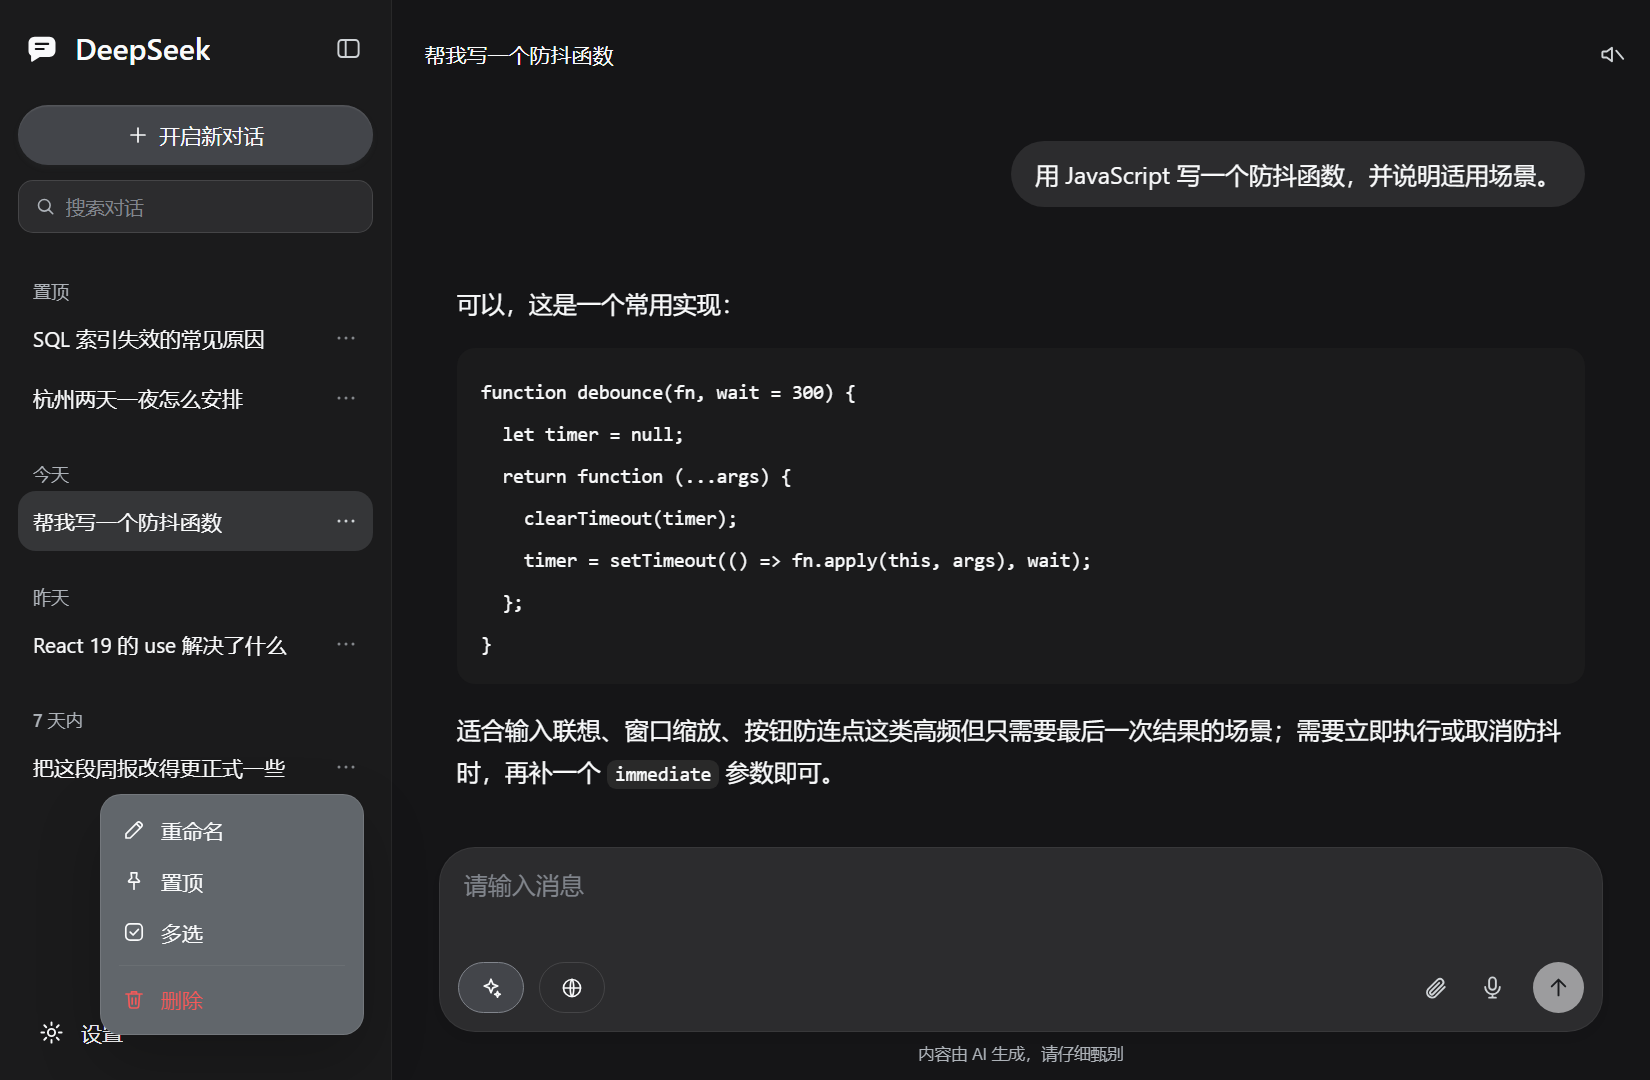
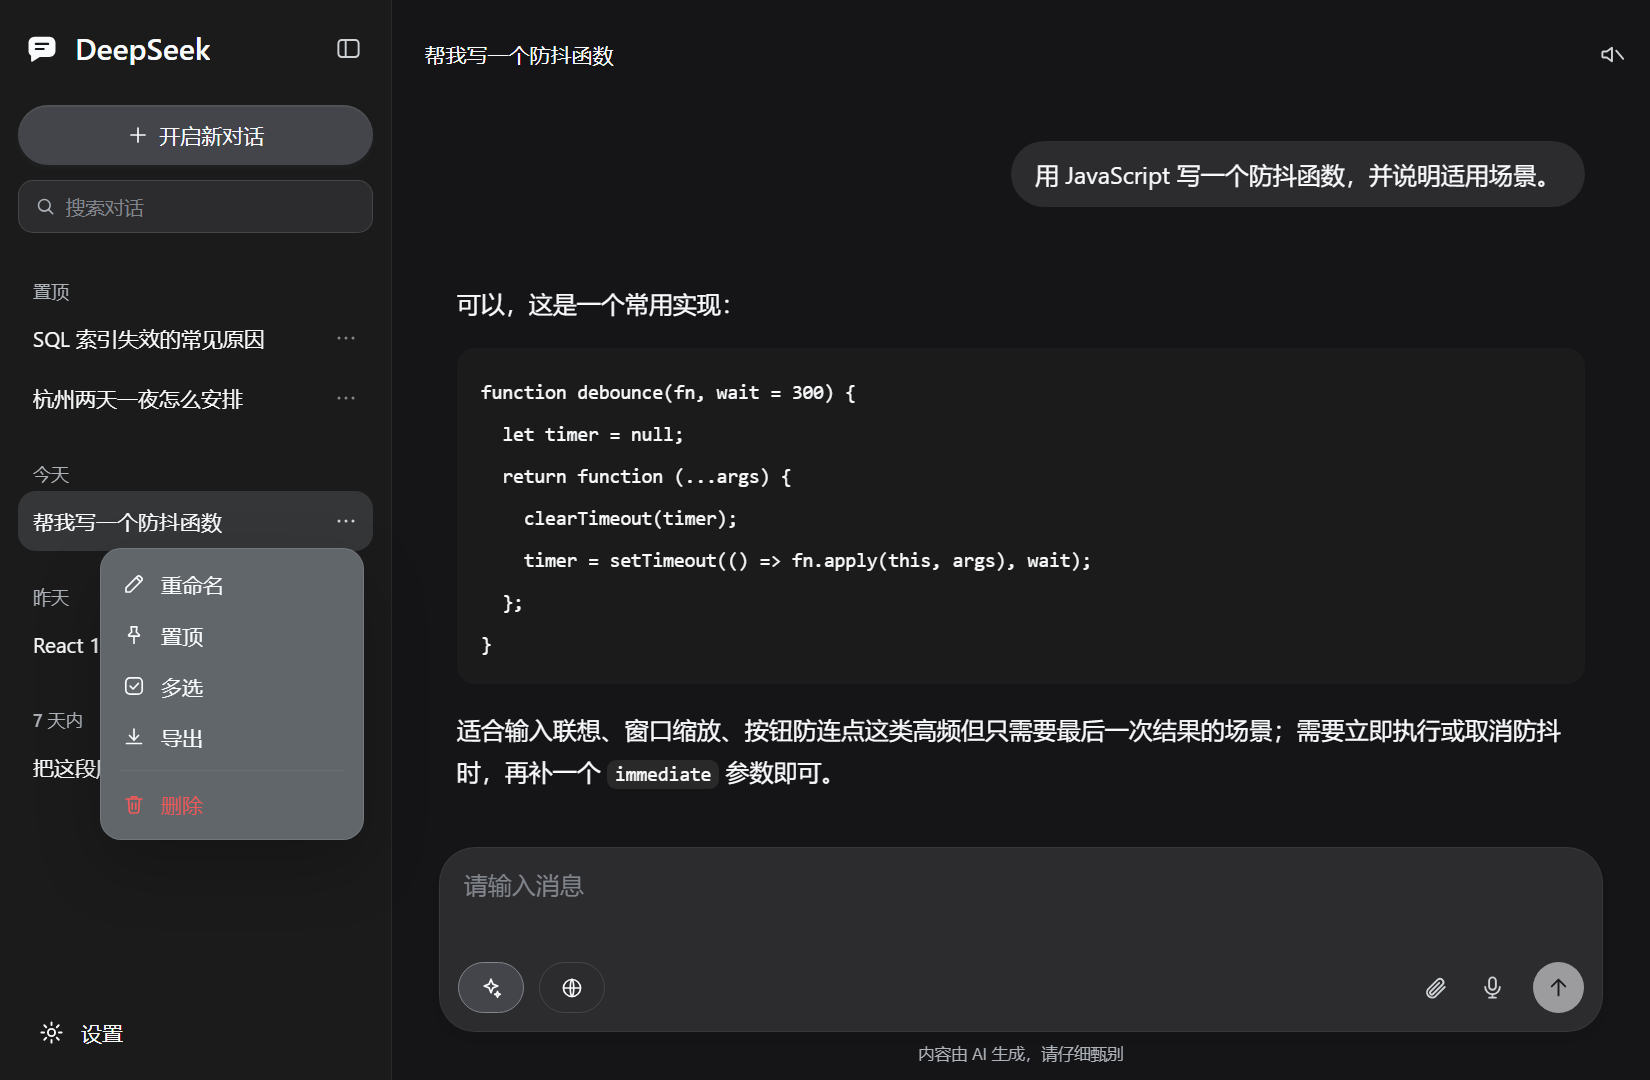
feat: message timestamps, single-conversation export and an architecture diagram (v1.4.0)
- messages store and render a local HH:MM timestamp, preserved by
  import/export
- the conversation menu exports one conversation to the export folder
- README gains an architecture diagram (browser/host split and data flow)
  and refreshed screenshots showing the export row
- 96 assertions

Changed region(s): [[0.0618, 0.4889, 0.2473, 0.9778]]

diff --git a/client.js b/client.js
@@ -134,6 +134,7 @@ window.__ModuleLoader__.load({
       'menu.pin': '置顶',
       'menu.unpin': '取消置顶',
       'menu.multi': '多选',
+      'menu.export': '导出',
       'menu.delete': '删除',
       'rename.title': '重命名对话',
       'rename.field': '对话标题',
@@ -260,6 +261,7 @@ window.__ModuleLoader__.load({
       'menu.pin': 'Pin to top',
       'menu.unpin': 'Unpin',
       'menu.multi': 'Select',
+      'menu.export': 'Export',
       'menu.delete': 'Delete',
       'rename.title': 'Rename conversation',
       'rename.field': 'Conversation title',
@@ -591,6 +593,14 @@ window.__ModuleLoader__.load({
       return date.getTime();
     }
 
+    /** 消息时间戳渲染成 HH:MM；缺失或非法时不显示。 */
+    function formatClock(value) {
+      if (typeof value !== 'number') return '';
+      const date = new Date(value);
+      if (Number.isNaN(date.getTime())) return '';
+      return String(date.getHours()).padStart(2, '0') + ':' + String(date.getMinutes()).padStart(2, '0');
+    }
+
     function groupThreads(threads, t) {
       const today = startOfDay(Date.now());
       const pinned = threads
@@ -739,6 +749,7 @@ window.__ModuleLoader__.load({
             id: newId('m'),
             role: message.role,
             text: message.text,
+            ...(typeof message.at === 'number' ? { at: message.at } : {}),
             ...(files.length > 0 ? { files: files } : {}),
           });
         }
@@ -776,6 +787,7 @@ window.__ModuleLoader__.load({
           return {
             role: message.role,
             text: message.text,
+            ...(typeof message.at === 'number' ? { at: message.at } : {}),
             ...(message.files && message.files.length > 0 ? { files: message.files } : {}),
           };
         }),
@@ -1792,7 +1804,7 @@ window.__ModuleLoader__.load({
         visibleIds.every(function (id) {
           return isChecked(id);
         });
-      const menuItemRefs = [useRef(null), useRef(null), useRef(null), useRef(null)];
+      const menuItemRefs = [useRef(null), useRef(null), useRef(null), useRef(null), useRef(null)];
       const menuFocusRef = useRef(0);
 
       /** 菜单在页面根节点内绝对定位，因此能越过列表的滚动裁剪；点外部、Esc、缩放和滚动都会收起。 */
@@ -1870,7 +1882,7 @@ window.__ModuleLoader__.load({
           ? page.getBoundingClientRect()
           : { left: 0, top: 0, width: window.innerWidth, height: window.innerHeight };
         const width = 176;
-        const height = 178;
+        const height = 204;
         const up = base.top + base.height - rect.bottom < height + 8;
         const left = Math.max(8, Math.min(rect.right - base.left - width, base.width - width - 8));
         const rawTop = up ? rect.top - base.top - height - 6 : rect.bottom - base.top + 6;
@@ -2196,13 +2208,27 @@ window.__ModuleLoader__.load({
                 h(Icon, { name: 'checkSquare', size: 16 }),
                 h('span', null, t('menu.multi')),
               ),
-              h('div', { className: 'cd-session-menu-sep', role: 'separator' }),
               h(
                 'button',
                 {
                   type: 'button',
                   role: 'menuitem',
                   ref: menuItemRefs[3],
+                  className: 'cd-session-menu-item',
+                  onClick: function () {
+                    run(props.onExportOne);
+                  },
+                },
+                h(Icon, { name: 'download', size: 16 }),
+                h('span', null, t('menu.export')),
+              ),
+              h('div', { className: 'cd-session-menu-sep', role: 'separator' }),
+              h(
+                'button',
+                {
+                  type: 'button',
+                  role: 'menuitem',
+                  ref: menuItemRefs[4],
                   className: 'cd-session-menu-item cd-session-menu-danger',
                   onClick: function () {
                     run(props.onDelete);
@@ -3076,7 +3102,7 @@ window.__ModuleLoader__.load({
               if (thread.id !== threadId) return thread;
               return Object.assign({}, thread, {
                 updatedAt: Date.now(),
-                messages: thread.messages.concat({ id: assistantId, role: 'assistant', text: '', reasoning: '' }),
+                messages: thread.messages.concat({ id: assistantId, role: 'assistant', text: '', reasoning: '', at: Date.now() }),
               });
             });
           });
@@ -3206,6 +3232,7 @@ window.__ModuleLoader__.load({
             id: newId('u'),
             role: 'user',
             text: text,
+            at: stamp,
             ...(files.length > 0 ? { files: files } : {}),
           };
           const existing = threads.find(function (thread) {
@@ -3632,6 +3659,19 @@ window.__ModuleLoader__.load({
         [threads, selectedIds, exportDir, exportConversations, showToast],
       );
 
+      /** 单条导出：从会话菜单里导出这一条。 */
+      const exportThreadById = useCallback(
+        async function (id) {
+          const thread = threads.find(function (item) {
+            return item.id === id;
+          });
+          if (!thread) return;
+          const result = await exportConversations(exportDir, [thread]);
+          showToast(result.text);
+        },
+        [threads, exportDir, exportConversations, showToast],
+      );
+
       const listDirectory = useCallback(
         async function (path) {
           const workspace = props.getWorkspace ? props.getWorkspace() : null;
@@ -3729,9 +3769,11 @@ window.__ModuleLoader__.load({
       const hasMessages = !!activeThread && activeThread.messages.length > 0;
 
       const renderActions = function (message, extra) {
+        const clock = formatClock(message.at);
         return h(
           'div',
           { className: 'cd-actions' },
+          clock === '' ? null : h('span', { className: 'cd-time' }, clock),
           message.role === 'assistant' && message.text
             ? h(
                 'button',
@@ -3925,6 +3967,9 @@ window.__ModuleLoader__.load({
         },
         onDelete: function (thread) {
           requestDelete([thread.id]);
+        },
+        onExportOne: function (thread) {
+          exportThreadById(thread.id);
         },
         selecting: selecting,
         selected: selectedIds,
@@ -4243,6 +4288,7 @@ window.__ModuleLoader__.load({
 .cd-assistant .cd-actions{padding-top:12px;padding-bottom:4px}
 @media (hover:hover){.cd-actions{opacity:0;transition:opacity .15s}.cd-user:hover .cd-actions,.cd-assistant:hover .cd-actions{opacity:1}}
 .cd-act{display:inline-flex;align-items:center;justify-content:center;width:28px;height:28px;padding:0;border:none;border-radius:8px;background:transparent;color:var(--dsw-alias-label-tertiary);cursor:pointer;transition:background-color .15s,color .15s}
+.cd-time{color:var(--dsw-alias-label-tertiary);font-size:11px;line-height:16px;letter-spacing:.02em;user-select:none}
 .cd-act:hover{background:var(--dsw-alias-interactive-bg-hover);color:var(--dsw-alias-label-primary)}
 .cd-act:focus-visible{outline:2px solid var(--dsw-alias-brand-primary);outline-offset:2px}
 .cd-waiting{display:flex;align-items:center;gap:6px;height:34px}

diff --git a/README.en.md b/README.en.md
@@ -29,6 +29,7 @@ Light theme:
 - Conversation search filters titles and message bodies; Esc or the clear button in the field restores the full list
 - Drafts are stored per conversation: half a sentence typed in A never shows up in B, and it survives leaving the panel
 - Keyboard support: arrow keys / Home / End navigate the menu, F2 renames and Delete deletes a focused conversation, and Tab stays inside dialogs with focus restored on close
+- Every message carries its local time (`HH:MM`), shown with the action buttons on hover or on touch
 - Message bubbles, welcome screen, composer, Markdown (headings / lists / inline code / code blocks) and a collapsible "Thought" block
 - Upload text files, voice input, send / stop on the right of the composer
 - "Deep thinking" maps to the model's reasoningEffort (on = max, off = off; levels come from the model declaration)
@@ -48,6 +49,7 @@ The "⋯" on the right of every conversation opens:
 | Rename | Dialog to edit the title: Enter saves, Esc cancels; the title is stored in localStorage and survives export / import |
 | Pin | Pinned conversations form their own group above all date groups, most recently pinned first; pinned rows offer "Unpin" |
 | Select | Enters multi-select: every row becomes a checkbox and clicking toggles it; the toolbar offers select-all / clear-all (over the current filter), bulk pin, bulk export and bulk delete, and Escape leaves |
+| Export | Writes this one conversation as JSON to the export folder and reports the result in the toast |
 | Delete | Two-step confirmation; the conversation is removed from the list and localStorage and cannot be recovered |
 
 The delete confirmation is intentionally fixed in wording and styling:
@@ -126,6 +128,16 @@ Restart DSH to take effect. To uninstall, remove that insert and the
 | `cordis.patch.yml` | Bundle patch, read by the Plugin Manager at install time |
 | `locale/zh.json`, `locale/en.json` | Name and description shown in the Plugin Manager |
 | `icon.svg` | Plugin icon |
+
+## Architecture
+
+![Architecture](media/architecture.svg)
+
+- The browser half (`client.js`) owns rendering: conversation list, menu, search, dialogs
+- Conversations, drafts and preferences live in the browser's `localStorage` and are not uploaded by default
+- The host half (`index.js`) serves `/chat-replica/*` routes and only calls services DSH already composed
+  (`llm.stream` / `web.search` / `speechToText` / `agentDefaultModel` / `uiWorkspace`)
+- Read-aloud requests are proxied by the Host with the key from your profile to `api.deepseek.com`
 
 ## How it works
 

diff --git a/README.md b/README.md
@@ -28,6 +28,7 @@
 - 会话搜索：按标题与消息全文过滤；Esc 或输入框里的清除按钮恢复全部
 - 草稿按会话隔离：在 A 里打半句去 B 不会串，切走面板再回来也还在
 - 键盘可用：菜单方向键 / Home / End 导航，行上 F2 重命名、Delete 删除，对话框内 Tab 循环且关闭后焦点还原
+- 每条消息带本地时间（`HH:MM`），悬停或触屏时与操作按钮一起显示
 - 消息气泡、欢迎语、输入框，Markdown（标题 / 列表 / 行内代码 / 代码块）与「已思考」折叠块
 - 输入框右侧：📎 上传文本文件、🎤 语音输入、发送 / 停止
 - 「深度思考」映射到模型的 reasoningEffort（开 = max，关 = off，档位取自模型声明）
@@ -47,6 +48,7 @@
 | 重命名 | 弹窗改标题：回车保存、Esc 取消；标题写回 localStorage，导出 / 导入也会保留 |
 | 置顶 | 单独成组排在所有日期分组之前（按置顶时间倒序）；已置顶的行显示「取消置顶」 |
 | 多选 | 进入多选：每行变成复选框，点行切换选择；工具条可全选 / 取消全选（按当前筛选结果）、批量置顶、批量导出、批量删除，Esc 退出 |
+| 导出 | 把这一条会话写成 JSON 到「导出位置」，结果显示为提示条 |
 | 删除 | 二次确认；确认后从列表和 localStorage 移除，不可恢复 |
 
 删除确认的文案与样式固定：
@@ -120,6 +122,16 @@ tar -czf dsh-chat-replica.tar.gz dsh-chat-replica
 | `cordis.patch.yml` | bundle 补丁（安装时由 Plugin Manager 读取） |
 | `locale/zh.json`、`locale/en.json` | Plugin Manager 里显示的名称与描述 |
 | `icon.svg` | 插件图标 |
+
+## 架构
+
+![架构图](media/architecture.svg)
+
+- 浏览器半边（`client.js`）负责全部渲染：会话列表、菜单、搜索、对话框
+- 会话、草稿、偏好都存在浏览器 `localStorage`，默认不上传
+- Host 半边（`index.js`）提供 `/chat-replica/*` 路由，内部只调用 DSH 已装配的服务
+  （`llm.stream` / `web.search` / `speechToText` / `agentDefaultModel` / `uiWorkspace`）
+- 朗读请求由 Host 用 profile 里的密钥代发到 `api.deepseek.com`
 
 ## 数据流
 

diff --git a/CHANGELOG.md b/CHANGELOG.md
@@ -3,6 +3,20 @@
 每个版本同时保留中文与 English 两小节；`scripts/release-notes.mjs` 会取出版本对应小节作为 GitHub Release 的正文。
 Every version keeps a Chinese and an English section together; `scripts/release-notes.mjs` turns that section into the GitHub Release body.
 
+## 1.4.0
+
+### 中文
+
+- 消息显示本地时间（`HH:MM`），与复制 / 朗读按钮一起出现，导入导出也保留时间戳
+- 会话菜单新增「导出」：把单条会话写成 JSON 存到「导出位置」
+- README 增加架构图（浏览器 / Host 两侧与数据流），并更新截图（菜单包含导出项）
+
+### English
+
+- Messages show their local time (`HH:MM`) next to the copy / read-aloud actions, and timestamps survive import and export
+- The conversation menu gains "Export", which writes just that conversation as JSON into the export folder
+- Added an architecture diagram (browser and host halves with the data flow) and refreshed the screenshots to include the export row
+
 ## 1.3.0
 
 ### 中文
